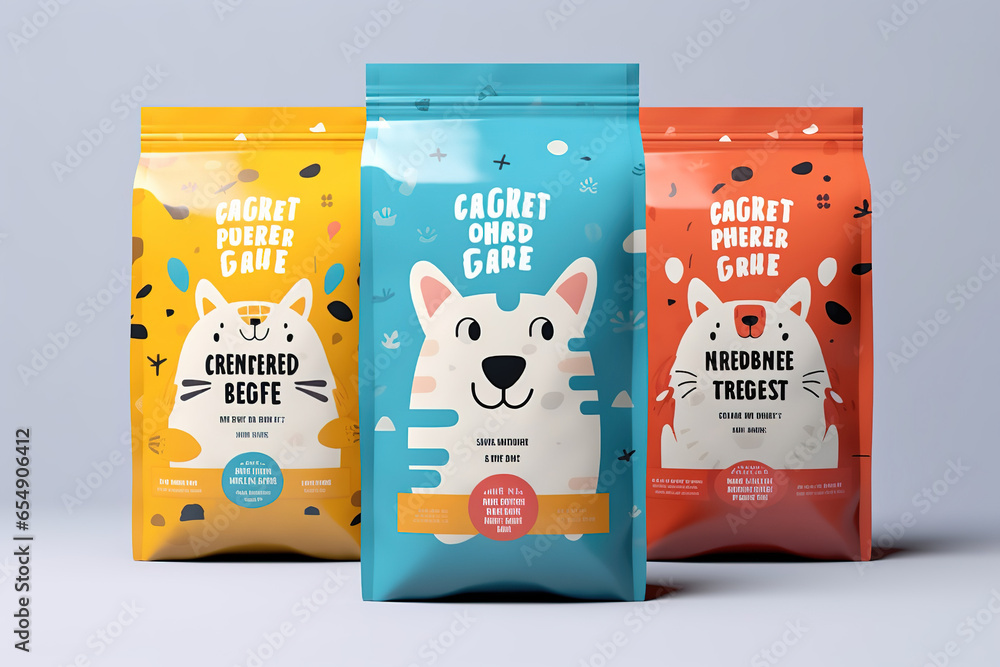
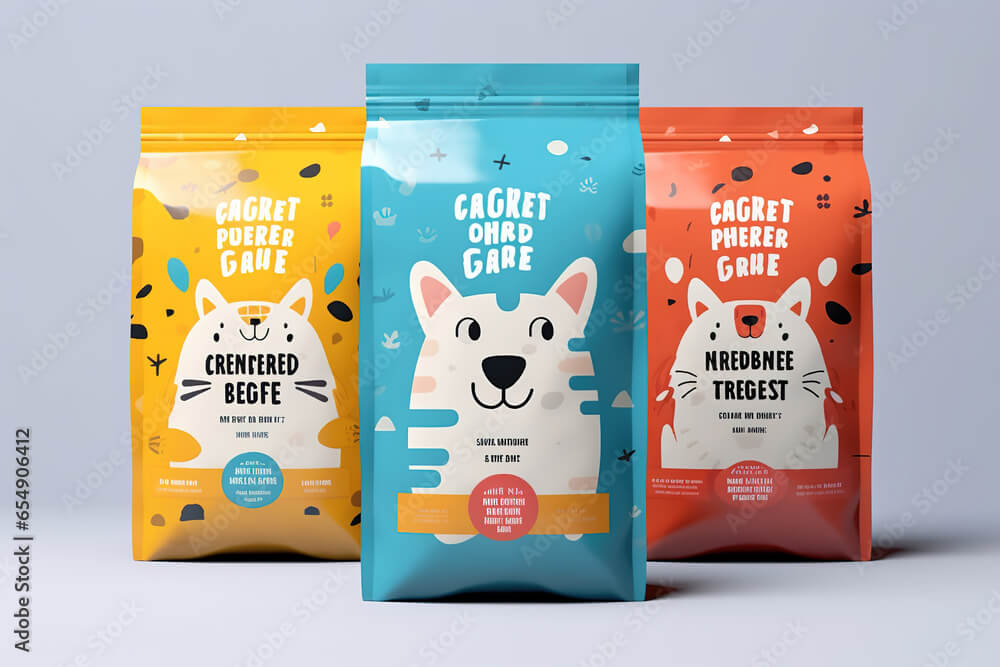
optimised images using tinypng

diff --git a/src/app/components/carousel.tsx b/src/app/components/carousel.tsx
@@ -1,134 +1,3 @@
-// import React, { useState, useEffect, useCallback, useRef } from 'react'
-// import { FaChevronLeft, FaChevronRight, FaPause, FaPlay } from 'react-icons/fa'
-// import Image from 'next/image'
-
-// interface ImageType {
-//   src: string
-//   alt: string
-// }
-
-// const ImageCarousel: React.FC = () => {
-//   const [currentIndex, setCurrentIndex] = useState<number>(0)
-//   const [isPlaying, setIsPlaying] = useState<boolean>(true)
-//   const timerRef = useRef<NodeJS.Timeout | null>(null)
-
-//   const images: ImageType[] = [
-//     {
-//       src: '/000.png',
-//       alt: 'Eraya foods:Best foxnut Supplier,Raw ,Customized'
-//     },
-//     {
-//       src: '/001.png',
-//       alt: 'Best Foxnut Supplier from India serving crunchy ,organic premium foxnuts sourced from lands of makhana :Bihar'
-//     },
-//     {
-//       src: '/002.png',
-//       alt: 'Sales multifold where Eraya foxnuts are sold.What sets us apart is our premium foxnuts, on time delevery, dedicated support in whole export process,customizable packaging,quality consistency  and genius marketing solutions to boost your sales!!'
-//     }
-//   ]
-
-//   const nextSlide = useCallback(() => {
-//     setCurrentIndex(prevIndex => (prevIndex + 1) % images.length)
-//   }, [images.length])
-
-//   const prevSlide = () => {
-//     setCurrentIndex(
-//       prevIndex => (prevIndex - 1 + images.length) % images.length
-//     )
-//   }
-
-//   const goToSlide = (index: number) => {
-//     setCurrentIndex(index)
-//   }
-
-//   const togglePlayPause = () => {
-//     setIsPlaying(prev => !prev)
-//   }
-
-//   useEffect(() => {
-//     if (isPlaying) {
-//       timerRef.current = setInterval(nextSlide, 4000)
-//     } else if (timerRef.current) {
-//       clearInterval(timerRef.current)
-//     }
-//     return () => {
-//       if (timerRef.current) clearInterval(timerRef.current)
-//     }
-//   }, [isPlaying, nextSlide])
-
-//   const handleKeyDown = (e: React.KeyboardEvent) => {
-//     if (e.key === 'ArrowLeft') {
-//       prevSlide()
-//     } else if (e.key === 'ArrowRight') {
-//       nextSlide()
-//     } else if (e.key === ' ') {
-//       togglePlayPause()
-//     }
-//   }
-
-//   return (
-//     <div
-//       className='relative max-w-full mx-auto overflow-hidden shadow-lg rounded-lg aspect-[16/9]'
-//       onKeyDown={handleKeyDown}
-//       tabIndex={0}
-//       role='region'
-//       aria-label='Image carousel'
-//     >
-//       {/* Carousel images */}
-//       <div
-//         className='flex transition-transform duration-700 ease-in-out'
-//         style={{ transform: `translateX(-${currentIndex * 100}%)` }}
-//       >
-//         {images.map((image, index) => (
-//           <Image
-//             key={index}
-//             src={image.src}
-//             alt={image.alt}
-//             className='w-full h-full object-contain flex-shrink-0 transition-opacity duration-700 ease-in-out'
-//             style={{ opacity: currentIndex === index ? 1 : 0.5 }}
-//             width={1920}
-//             height={1080}
-//             priority
-//           />
-//         ))}
-//       </div>
-
-//       {/* Previous/Next buttons */}
-//       <button
-//         onClick={prevSlide}
-//         className='absolute left-2 top-1/2 transform -translate-y-1/2 bg-black bg-opacity-50 text-white p-2 rounded-full hover:bg-opacity-75 focus:outline-none focus:ring-2 focus:ring-offset-2 focus:ring-offset-gray-800 focus:ring-white'
-//         aria-label='Previous image'
-//       >
-//         <FaChevronLeft />
-//       </button>
-
-//       <button
-//         onClick={nextSlide}
-//         className='absolute right-2 top-1/2 transform -translate-y-1/2 bg-black bg-opacity-50 text-white p-2 rounded-full hover:bg-opacity-75 focus:outline-none focus:ring-2 focus:ring-offset-2 focus:ring-offset-gray-800 focus:ring-white'
-//         aria-label='Next image'
-//       >
-//         <FaChevronRight />
-//       </button>
-
-//       {/* Carousel indicators */}
-//       <div className='absolute bottom-4 left-1/2 transform -translate-x-1/2 flex space-x-2'>
-//         {images.map((_, index) => (
-//           <button
-//             key={index}
-//             onClick={() => goToSlide(index)}
-//             className={`w-3 h-3 rounded-full ${
-//               index === currentIndex ? 'bg-white' : 'bg-gray-400'
-//             } focus:outline-none focus:ring-2 focus:ring-offset-2 focus:ring-offset-gray-800 focus:ring-white`}
-//             aria-label={`Go to image ${index + 1}`}
-//           />
-//         ))}
-//       </div>
-//     </div>
-//   )
-// }
-
-// export default ImageCarousel
-
 import React, { useState, useEffect, useCallback, useRef } from 'react'
 import { FaChevronLeft, FaChevronRight, FaPause, FaPlay } from 'react-icons/fa'
 import Image from 'next/image'
